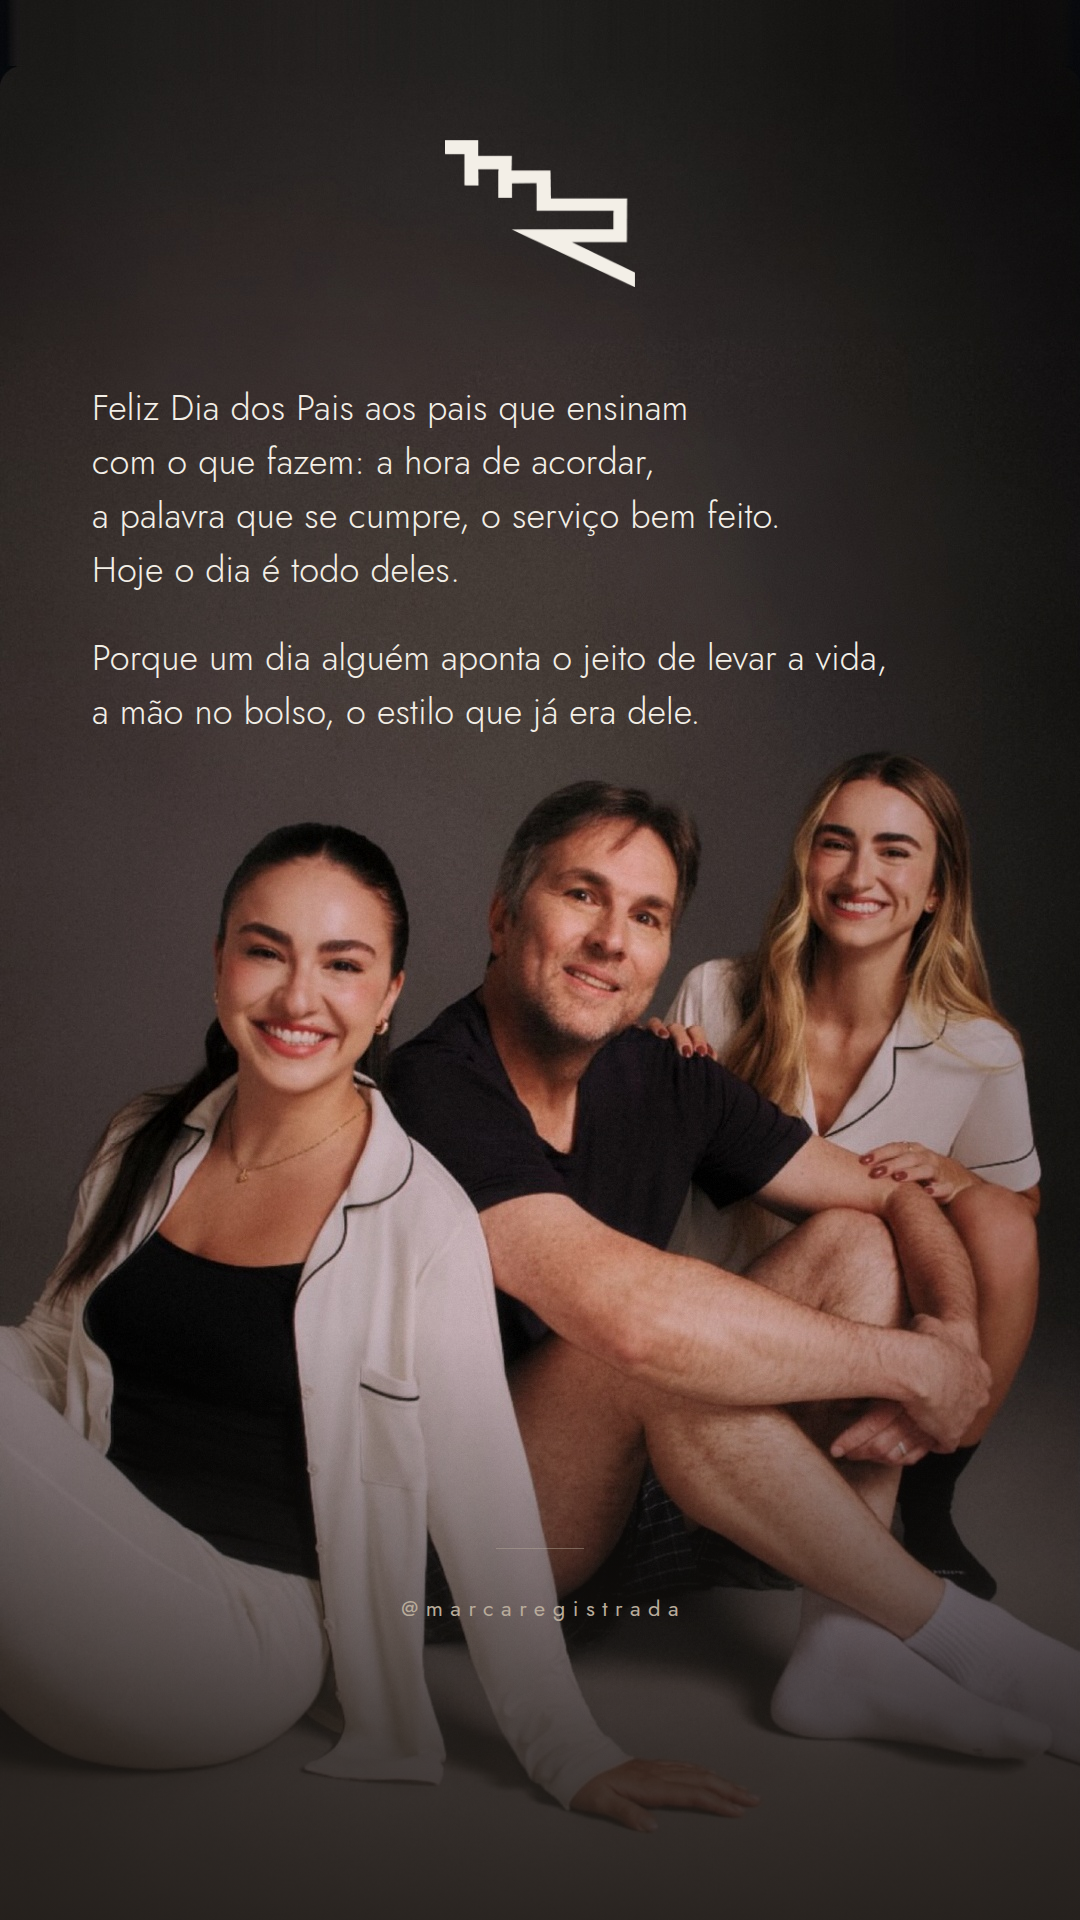
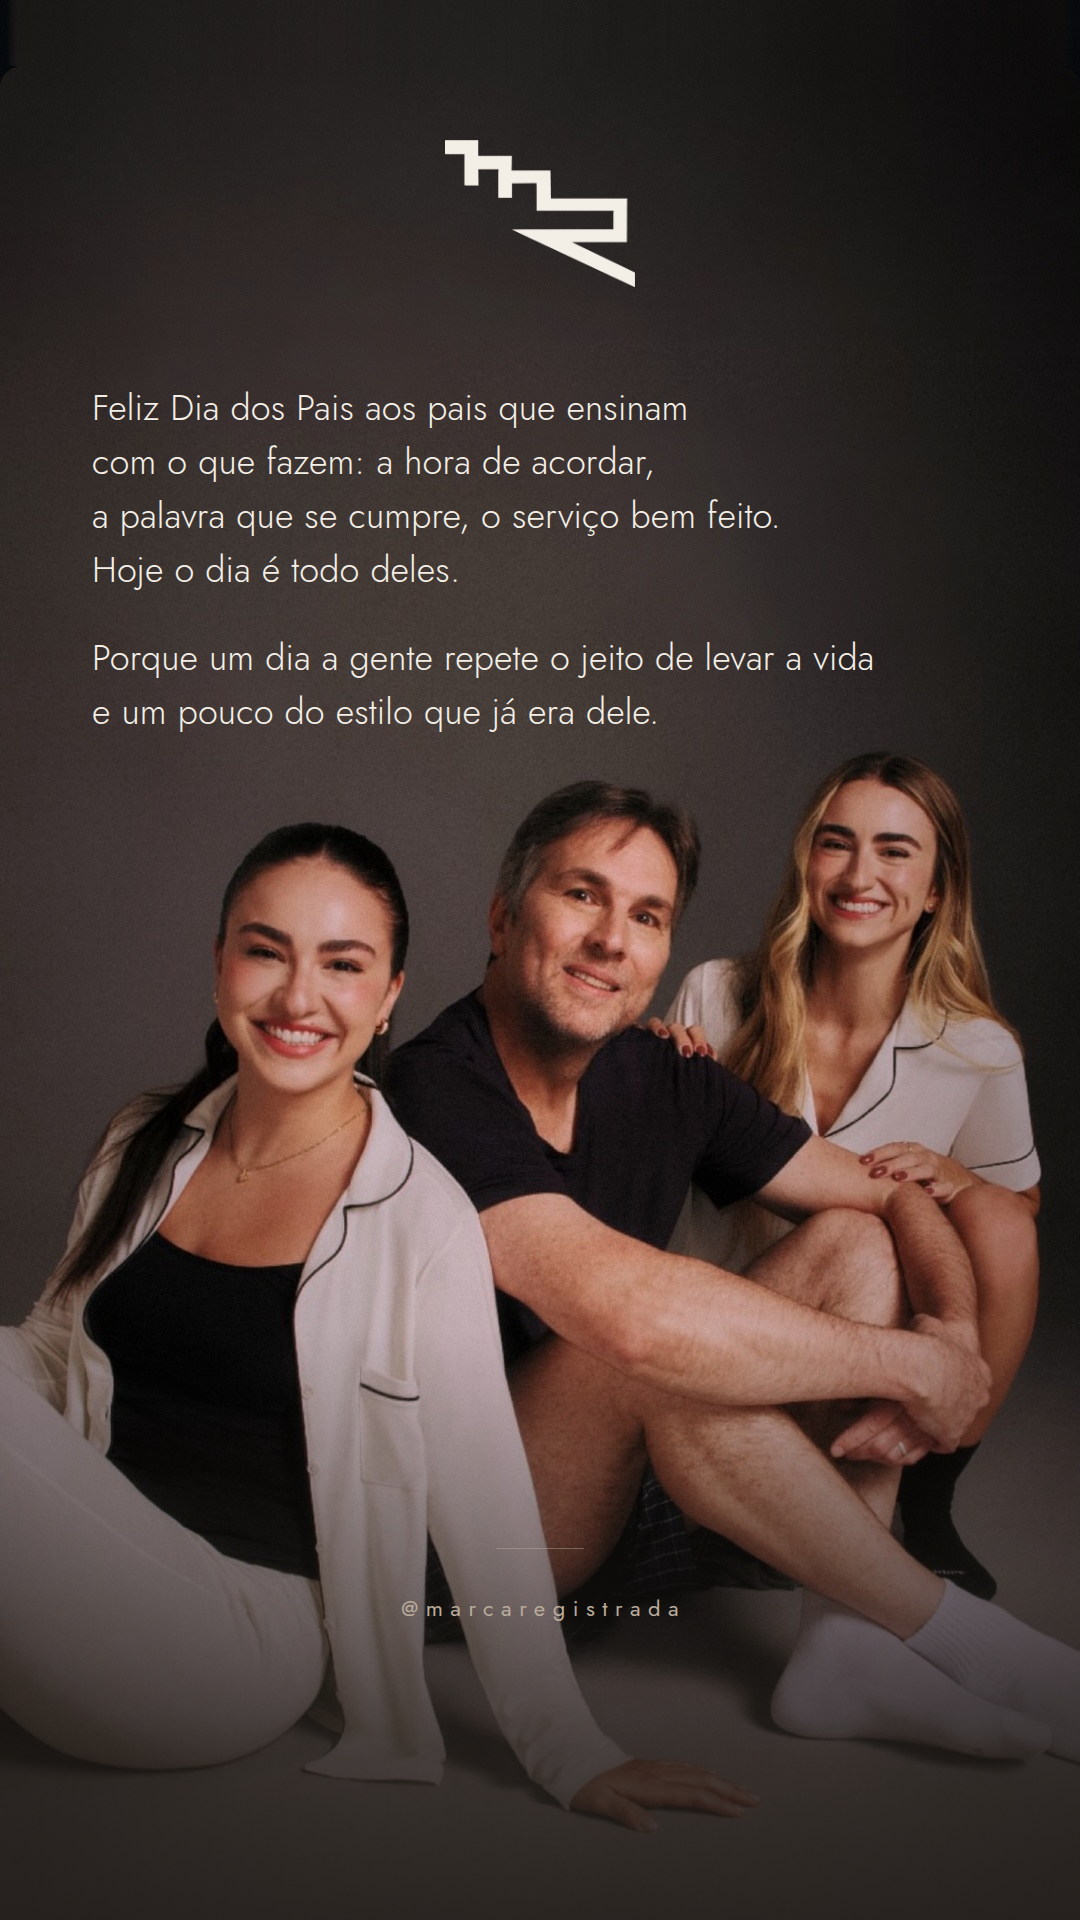
Use the client's wording for the closing line
Three typo fixes on the way in: "lavar" to "levar", "é" to "e" (the sentence
needs the conjunction, not the verb), and the missing "era" in "que já era
dele".

Measured the result rather than eyeballing it: both blocks come back at
exactly 4 and 2 line-heights, so nothing wraps, and the text clears the heads
in the photo by 62px.

Changed region(s): [[0.1222, 0.3125, 0.6417, 0.375], [0.7639, 0.3125, 0.7944, 0.375], [0.6722, 0.3438, 0.7028, 0.375]]

diff --git a/design/dia-dos-pais-stories.html b/design/dia-dos-pais-stories.html
@@ -44,7 +44,7 @@ body{display:flex;justify-content:center;align-items:flex-start;}
        alt="Marca Registrada">
 
   <div class="msg">Feliz Dia dos Pais aos pais que ensinam<br>com o que fazem: a hora de acordar,<br>a palavra que se cumpre, o serviço bem feito.<br>Hoje o dia é todo deles.</div>
-  <div class="remate">Porque um dia alguém aponta o jeito de levar a vida,<br>a mão no bolso, o estilo que já era dele.</div>
+  <div class="remate">Porque um dia a gente repete o jeito de levar a vida<br>e um pouco do estilo que já era dele.</div>
 
   <div class="regua2"></div>
   <div class="arroba">@marcaregistrada</div>

diff --git a/design/src/build_pais.py b/design/src/build_pais.py
@@ -21,8 +21,8 @@ MENSAGEM = ['Feliz Dia dos Pais aos pais que ensinam',
             'Hoje o dia é todo deles.']
 # O remate sai do bloco e ganha respiro: colado, seria lido como continuacao
 # da lista, e nao como a virada que e.
-REMATE = ['Porque um dia alguém aponta o jeito de levar a vida,',
-          'a mão no bolso, o estilo que já era dele.']
+REMATE = ['Porque um dia a gente repete o jeito de levar a vida',
+          'e um pouco do estilo que já era dele.']
 # Sem "Feliz Dia dos Pais" aqui: o desejo agora abre o texto, e repeti-lo na
 # base gastaria duas vezes a mesma coisa. Fica so o arroba.
 ARROBA = '@marcaregistrada'

diff --git a/design/README-dia-dos-pais.md b/design/README-dia-dos-pais.md
@@ -12,20 +12,16 @@ caixa alta com muito respiro no topo.
 > a palavra que se cumpre, o serviço bem feito.
 > Hoje o dia é todo deles.
 >
-> Porque um dia alguém aponta o jeito de levar a vida,
-> a mão no bolso, o estilo que já era dele.
+> Porque um dia a gente repete o jeito de levar a vida
+> e um pouco do estilo que já era dele.
 
 Abre com o desejo e fecha na herança — mas a herança aparece como **gestos**, não como a
 palavra. Dizer "isso é herança" explica o sentimento; mostrar a mão no bolso faz o leitor
 chegar nele sozinho, que é o que emociona.
 
-Os três itens do remate descem de escala de propósito: *levar a vida* (grande e abstrato),
-*a mão no bolso* (pequeno e concreto), *o estilo* (o meio-termo, e a ponte para uma loja de
-roupa). É essa descida que dá ritmo à lista.
-
-Quem aponta é **outra pessoa**, não o próprio filho: ninguém descobre sozinho que herdou um
-gesto — alguém comenta. Uma versão anterior dizia "a gente se pega no jeito de andar", e
-além de soar torto, punha o filho percebendo por conta própria, que não é como acontece.
+O remate é do cliente. Na revisão saíram três correções de digitação: *lavar* → **levar**,
+o *é* virou **e** (a frase pede conjunção, não verbo) e faltava o **era** em "que já era
+dele".
 
 O "Porque" no início do remate liga as duas metades: o dia é deles *porque* o jeito deles
 segue vivo em quem ficou.
